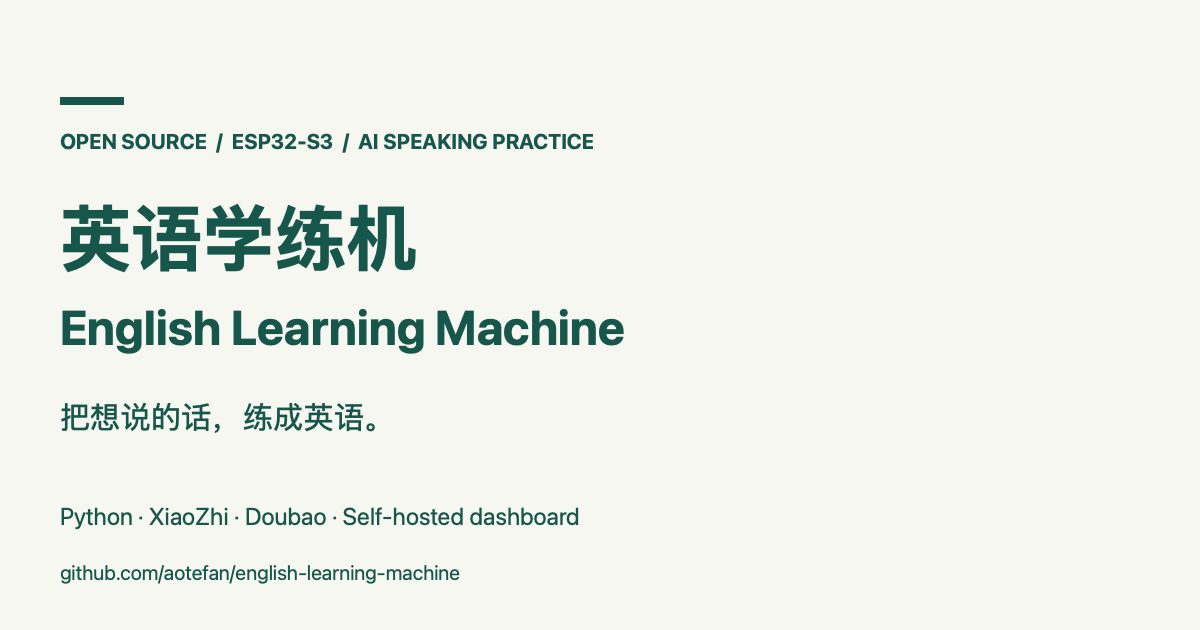
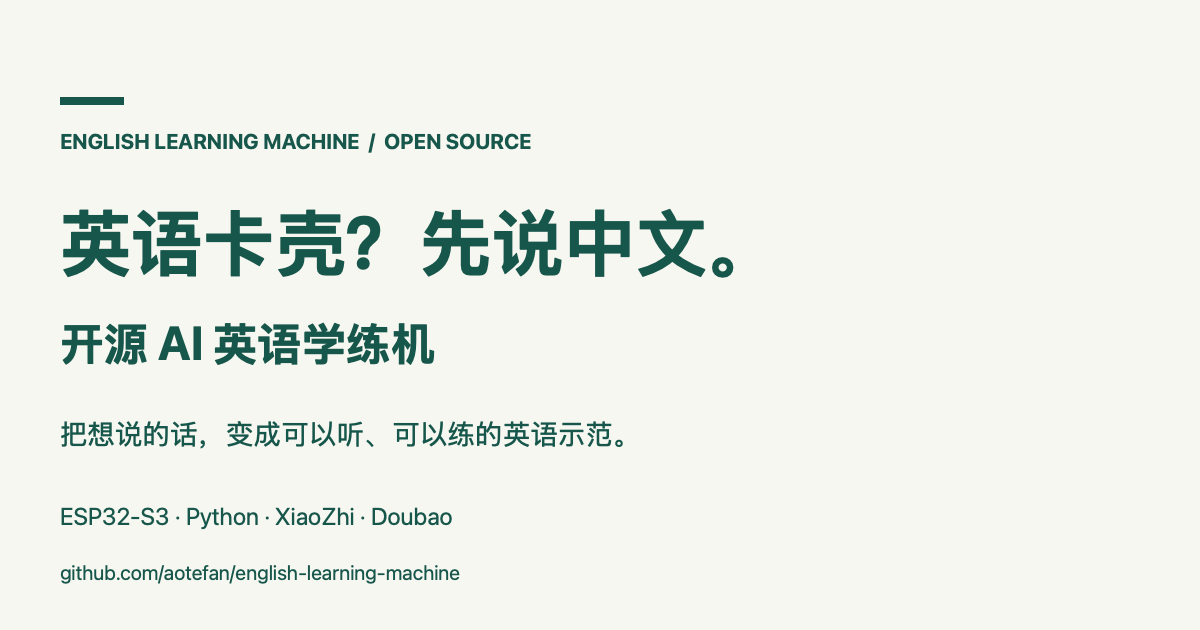
Lead project titles with the learner need: start in Chinese when English stalls

diff --git a/docs/en.html b/docs/en.html
@@ -1,12 +1,12 @@
 <!doctype html>
 <html lang="en"><head><meta charset="utf-8"><meta name="viewport" content="width=device-width, initial-scale=1">
-<title>English Learning Machine | Open-Source ESP32-S3 AI Speaking Practice</title><meta name="description" content="Build an open-source ESP32-S3 English speaking practice device with XiaoZhi, Python and Doubao. Chinese-to-English expression, spoken examples, conversation practice and web review. Source, wiring and self-hosting guides.">
+<title>Stuck in English? Start in Chinese | Open-Source English Learning Machine</title><meta name="description" content="Build an open-source ESP32-S3 English speaking practice device with XiaoZhi, Python and Doubao. Chinese-to-English expression, spoken examples, conversation practice and web review. Source, wiring and self-hosting guides.">
 <meta name="robots" content="index,follow,max-image-preview:large"><link rel="canonical" href="https://aotefan.github.io/english-learning-machine/en.html">
 <link rel="alternate" hreflang="zh-CN" href="https://aotefan.github.io/english-learning-machine/"><link rel="alternate" hreflang="en" href="https://aotefan.github.io/english-learning-machine/en.html"><link rel="alternate" hreflang="x-default" href="https://aotefan.github.io/english-learning-machine/">
-<meta property="og:type" content="website"><meta property="og:title" content="English Learning Machine | Open-Source ESP32-S3 AI Speaking Practice"><meta property="og:description" content="Build an open-source ESP32-S3 English speaking practice device with XiaoZhi, Python and Doubao. Chinese-to-English expression, spoken examples, conversation practice and web review. Source, wiring and self-hosting guides."><meta property="og:url" content="https://aotefan.github.io/english-learning-machine/en.html"><meta property="og:site_name" content="English Learning Machine"><meta property="og:image" content="https://aotefan.github.io/english-learning-machine/social-preview.png"><meta property="og:image:width" content="1200"><meta property="og:image:height" content="630"><meta property="og:image:alt" content="English Learning Machine — ESP32-S3 AI English speaking practice">
+<meta property="og:type" content="website"><meta property="og:title" content="Stuck in English? Start in Chinese | Open-Source English Learning Machine"><meta property="og:description" content="Build an open-source ESP32-S3 English speaking practice device with XiaoZhi, Python and Doubao. Chinese-to-English expression, spoken examples, conversation practice and web review. Source, wiring and self-hosting guides."><meta property="og:url" content="https://aotefan.github.io/english-learning-machine/en.html"><meta property="og:site_name" content="English Learning Machine"><meta property="og:image" content="https://aotefan.github.io/english-learning-machine/social-preview.png"><meta property="og:image:width" content="1200"><meta property="og:image:height" content="630"><meta property="og:image:alt" content="English Learning Machine — ESP32-S3 AI English speaking practice">
 <meta name="twitter:card" content="summary_large_image"><link rel="stylesheet" href="style.css"><script type="application/ld+json">{"@context": "https://schema.org", "@type": "SoftwareSourceCode", "name": "English Learning Machine", "alternateName": ["英语学练机", "English Edge"], "description": "Build an open-source ESP32-S3 English speaking practice device with XiaoZhi, Python and Doubao. Chinese-to-English expression, spoken examples, conversation practice and web review. Source, wiring and self-hosting guides.", "codeRepository": "https://github.com/aotefan/english-learning-machine", "url": "https://aotefan.github.io/english-learning-machine/en.html", "license": "https://github.com/aotefan/english-learning-machine/blob/main/LICENSE", "programmingLanguage": ["Python", "C++", "JavaScript"], "runtimePlatform": "ESP32-S3 and Python", "isAccessibleForFree": true, "inLanguage": "en"}</script></head>
 <body><nav aria-label="Main"><a class="brand" href="en.html">ENGLISH LEARNING MACHINE</a><div class="links"><a href="index.html" lang="zh-CN">中文</a><a href="https://github.com/aotefan/english-learning-machine">GitHub ↗</a></div></nav>
-<main><header class="hero"><p class="eyebrow">OPEN SOURCE / ESP32-S3 / AI SPEAKING PRACTICE</p><h1>English Learning Machine<span>Say what you mean.<br>Practice it in English.</span></h1><p class="lead">A DIY AI English speaking practice device built on ESP32-S3, XiaoZhi and Doubao cloud services. Start with Chinese or mixed-language speech, hear an English example, and practice saying it.</p><div class="actions"><a class="button" href="https://github.com/aotefan/english-learning-machine">Explore the source ↗</a><a class="button secondary" href="https://github.com/aotefan/english-learning-machine/blob/main/docs/quickstart.md">Build your own</a></div><p class="note">Developer prototype · MIT integration code · Bring your own cloud account</p></header>
+<main><header class="hero"><p class="eyebrow">OPEN SOURCE / ESP32-S3 / AI SPEAKING PRACTICE</p><h1>Stuck in English?<span>Start in Chinese.</span></h1><p class="lead">A DIY AI English speaking practice device built on ESP32-S3, XiaoZhi and Doubao cloud services. Start with Chinese or mixed-language speech, hear an English example, and practice saying it.</p><div class="actions"><a class="button" href="https://github.com/aotefan/english-learning-machine">Explore the source ↗</a><a class="button secondary" href="https://github.com/aotefan/english-learning-machine/blob/main/docs/quickstart.md">Build your own</a></div><p class="note">Developer prototype · MIT integration code · Bring your own cloud account</p></header>
 <div class="example"><span class="label">Start with an idea</span><p>「我想再喝一点水。」</p><span class="label">Illustrative English example</span><strong>I'd like some more water.</strong></div>
 <section><h2>An expression, a spoken example, a chance to practice.</h2><div class="grid"><article><p class="eyebrow">01 / EXPRESS</p><h3>Keep the meaning</h3><p>Turn Chinese or mixed Chinese–English speech into English while preserving intent, quantities and requests.</p></article><article><p class="eyebrow">02 / PRACTICE</p><h3>Hear it. Try it.</h3><p>Choose expression or conversation mode, and replay a recently played example.</p></article><article><p class="eyebrow">03 / REVIEW</p><h3>Return to useful phrases</h3><p>Browse recent expressions and self-assessments. Manage the device and daily estimated spending in a browser.</p></article></div></section>
 <section><h2>Voice hardware at the edge. Language services in the cloud.</h2><div class="flow" aria-label="Architecture"><span>ESP32-S3</span><b aria-hidden="true">→</b><span>Seed-ASR</span><b aria-hidden="true">→</b><span>Ark language model</span><b aria-hidden="true">→</b><span>Seed-TTS</span><b aria-hidden="true">→</b><span>Speaker + display</span></div><p>A Python server connects over WebSocket / Opus, SQLite stores private learning and usage data, and the browser handles review and controls. The recommended mode is half-duplex: listen, generate, play, then listen again.</p></section>

diff --git a/docs/index.html b/docs/index.html
@@ -1,12 +1,12 @@
 <!doctype html>
 <html lang="zh-CN"><head><meta charset="utf-8"><meta name="viewport" content="width=device-width, initial-scale=1">
-<title>英语学练机｜ESP32-S3 开源 AI 英语口语陪练机</title><meta name="description" content="基于 ESP32-S3、小智和豆包的开源英语口语练习设备：中文与中英混说转自然英语、示范播放、对话陪练和网页复习。提供 Python 源码、硬件接线与自托管部署说明。">
+<title>英语卡壳？先说中文｜开源 AI 英语学练机</title><meta name="description" content="基于 ESP32-S3、小智和豆包的开源英语口语练习设备：中文与中英混说转自然英语、示范播放、对话陪练和网页复习。提供 Python 源码、硬件接线与自托管部署说明。">
 <meta name="robots" content="index,follow,max-image-preview:large"><link rel="canonical" href="https://aotefan.github.io/english-learning-machine/">
 <link rel="alternate" hreflang="zh-CN" href="https://aotefan.github.io/english-learning-machine/"><link rel="alternate" hreflang="en" href="https://aotefan.github.io/english-learning-machine/en.html"><link rel="alternate" hreflang="x-default" href="https://aotefan.github.io/english-learning-machine/">
-<meta property="og:type" content="website"><meta property="og:title" content="英语学练机｜ESP32-S3 开源 AI 英语口语陪练机"><meta property="og:description" content="基于 ESP32-S3、小智和豆包的开源英语口语练习设备：中文与中英混说转自然英语、示范播放、对话陪练和网页复习。提供 Python 源码、硬件接线与自托管部署说明。"><meta property="og:url" content="https://aotefan.github.io/english-learning-machine/"><meta property="og:site_name" content="English Learning Machine"><meta property="og:image" content="https://aotefan.github.io/english-learning-machine/social-preview.png"><meta property="og:image:width" content="1200"><meta property="og:image:height" content="630"><meta property="og:image:alt" content="English Learning Machine — ESP32-S3 AI English speaking practice">
+<meta property="og:type" content="website"><meta property="og:title" content="英语卡壳？先说中文｜开源 AI 英语学练机"><meta property="og:description" content="基于 ESP32-S3、小智和豆包的开源英语口语练习设备：中文与中英混说转自然英语、示范播放、对话陪练和网页复习。提供 Python 源码、硬件接线与自托管部署说明。"><meta property="og:url" content="https://aotefan.github.io/english-learning-machine/"><meta property="og:site_name" content="English Learning Machine"><meta property="og:image" content="https://aotefan.github.io/english-learning-machine/social-preview.png"><meta property="og:image:width" content="1200"><meta property="og:image:height" content="630"><meta property="og:image:alt" content="English Learning Machine — ESP32-S3 AI English speaking practice">
 <meta name="twitter:card" content="summary_large_image"><link rel="stylesheet" href="style.css"><script type="application/ld+json">{"@context": "https://schema.org", "@type": "SoftwareSourceCode", "name": "English Learning Machine", "alternateName": ["英语学练机", "English Edge"], "description": "基于 ESP32-S3、小智和豆包的开源英语口语练习设备：中文与中英混说转自然英语、示范播放、对话陪练和网页复习。提供 Python 源码、硬件接线与自托管部署说明。", "codeRepository": "https://github.com/aotefan/english-learning-machine", "url": "https://aotefan.github.io/english-learning-machine/", "license": "https://github.com/aotefan/english-learning-machine/blob/main/LICENSE", "programmingLanguage": ["Python", "C++", "JavaScript"], "runtimePlatform": "ESP32-S3 and Python", "isAccessibleForFree": true, "inLanguage": "zh-CN"}</script></head>
 <body><nav aria-label="Main"><a class="brand" href="index.html">ENGLISH LEARNING MACHINE</a><div class="links"><a href="en.html" lang="en">English</a><a href="https://github.com/aotefan/english-learning-machine">GitHub ↗</a></div></nav>
-<main><header class="hero"><p class="eyebrow">OPEN SOURCE / ESP32-S3 / AI SPEAKING PRACTICE</p><h1>英语学练机<span>把想说的话，练成英语。</span></h1><p class="lead">一套可以自己搭建的 AI 英语口语练习设备。先用中文或中英混说表达意思，听英语示范，再开口练习。基于 ESP32-S3、小智和豆包云端服务。</p><div class="actions"><a class="button" href="https://github.com/aotefan/english-learning-machine">查看开源代码 ↗</a><a class="button secondary" href="https://github.com/aotefan/english-learning-machine/blob/main/docs/quickstart.md">开始搭建</a></div><p class="note">开发者原型 · MIT 集成代码 · 云端 API 需自行开通</p></header>
+<main><header class="hero"><p class="eyebrow">OPEN SOURCE / ESP32-S3 / AI SPEAKING PRACTICE</p><h1>英语卡壳？<span>先说中文。</span></h1><p class="lead">开源 AI 英语学练机，把你想说的中文或中英混合表达，变成可以听、可以跟着练的英语示范。基于 ESP32-S3、小智和豆包，自己就能搭建。</p><div class="actions"><a class="button" href="https://github.com/aotefan/english-learning-machine">查看开源代码 ↗</a><a class="button secondary" href="https://github.com/aotefan/english-learning-machine/blob/main/docs/quickstart.md">开始搭建</a></div><p class="note">开发者原型 · MIT 集成代码 · 云端 API 需自行开通</p></header>
 <div class="example"><span class="label">你想表达</span><p>「我想再喝一点水。」</p><span class="label">英文示范（行为示例）</span><strong>I'd like some more water.</strong></div>
 <section><h2>围绕真实表达，完成一次练习。</h2><div class="grid"><article><p class="eyebrow">01 / 表达</p><h3>整句表达成英语</h3><p>中文、中英混说都可以作为输入，关注说话意图、数量、时间和请求语气。</p></article><article><p class="eyebrow">02 / 陪练</p><h3>听示范，再开口</h3><p>表达与对话两种模式；可重听最近实际播放的英文示范。</p></article><article><p class="eyebrow">03 / 复习</p><h3>在网页上回看</h3><p>查看最近表达、记录自评，管理音量、输入模式和每日估算费用上限。</p></article></div></section>
 <section><h2>设备负责收音与播放，云端负责理解与生成。</h2><div class="flow" aria-label="Architecture"><span>ESP32-S3</span><b aria-hidden="true">→</b><span>Seed-ASR</span><b aria-hidden="true">→</b><span>方舟英语生成</span><b aria-hidden="true">→</b><span>Seed-TTS</span><b aria-hidden="true">→</b><span>扬声器与屏幕</span></div><p>Python 服务通过 WebSocket / Opus 连接设备，SQLite 保存私有学习与用量记录，浏览器提供设备控制和复习。当前日常配置为半双工：说话 → 生成 → 播放 → 恢复监听。</p></section>

diff --git a/docs/discoverability.md b/docs/discoverability.md
@@ -1,10 +1,10 @@
 # 项目命名、搜索与 AI 引用说明
 
-中文主标题：**英语学练机：ESP32-S3 开源 AI 英语口语陪练机**。
-英文主标题：**English Learning Machine: Open-Source ESP32-S3 AI English Speaking Practice**。
+中文主标题：**英语卡壳？先说中文｜开源 AI 英语学练机**。
+英文主标题：**Stuck in English? Start in Chinese | Open-Source English Learning Machine**。
 仓库名：`english-learning-machine`。源码中的 `English Edge` 指同一项目。
 
-标题先说明产品用途，再说明平台和开源属性；README 首段、中英文说明、GitHub About、主题标签和文档主页保持一致。使用英语口语练习、ESP32-S3、小智、豆包、AI voice assistant 等与实际实现相关的词，不添加无关热词。
+标题先呈现「想说却卡壳」的使用情境，再给出「先说中文」的具体入口和开源产品名；ESP32-S3 与豆包等技术关键词放在副标题、简介和正文中。README 首段、中英文说明、GitHub About、主题标签和文档主页保持一致。使用英语口语练习、ESP32-S3、小智、豆包、AI voice assistant 等与实际实现相关的词，不添加无关热词。
 
 公开文档提供直接回答的 FAQ、明确的数据流、源码位置和功能边界，便于搜索引擎或 AI 系统准确理解与引用。文档页提供可抓取 HTML、语言链接、canonical、Open Graph、站点地图及与正文一致的 SoftwareSourceCode 结构化数据。`llms.txt` 仅作为方便阅读的入口索引。
 

diff --git a/README.md b/README.md
@@ -1,6 +1,8 @@
-# 英语学练机：ESP32-S3 开源 AI 英语口语陪练机
+# 英语卡壳？先说中文｜开源 AI 英语学练机
 
-**English Learning Machine — an open-source ESP32-S3 AI English speaking practice device.**
+**ESP32-S3 × 豆包 AI：把想说的中文变成英语示范，听完就能开口练。**
+
+English Learning Machine — an open-source ESP32-S3 AI English speaking practice device.
 
 把想说的中文或中英混合表达变成自然英语，听示范、开口练，再通过网页复习。英语学练机是一套可自行搭建的 **AI 英语口语练习硬件 + Python 云端服务**，基于小智开源项目，接入豆包语音识别、方舟语言模型和语音合成。
 

diff --git a/README.en.md b/README.en.md
@@ -1,4 +1,4 @@
-# English Learning Machine: Open-Source ESP32-S3 AI English Speaking Practice
+# Stuck in English? Start in Chinese — Open-Source English Learning Machine
 
 **Turn Chinese or mixed Chinese–English speech into natural English, hear an example, and practice speaking with a DIY voice device.**
 
